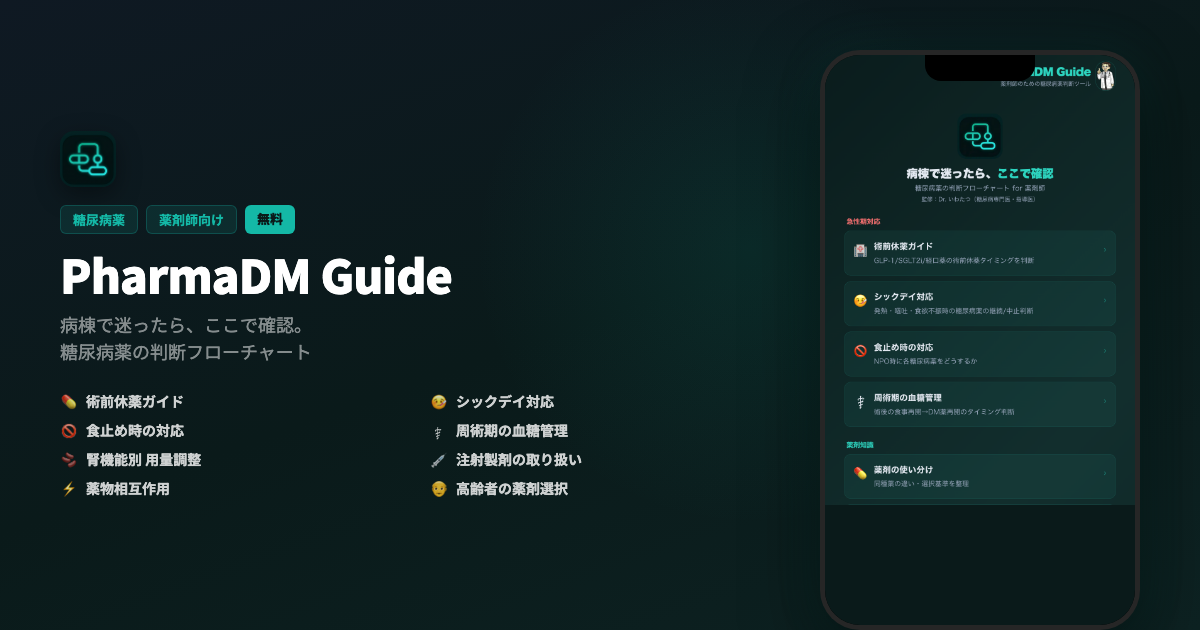
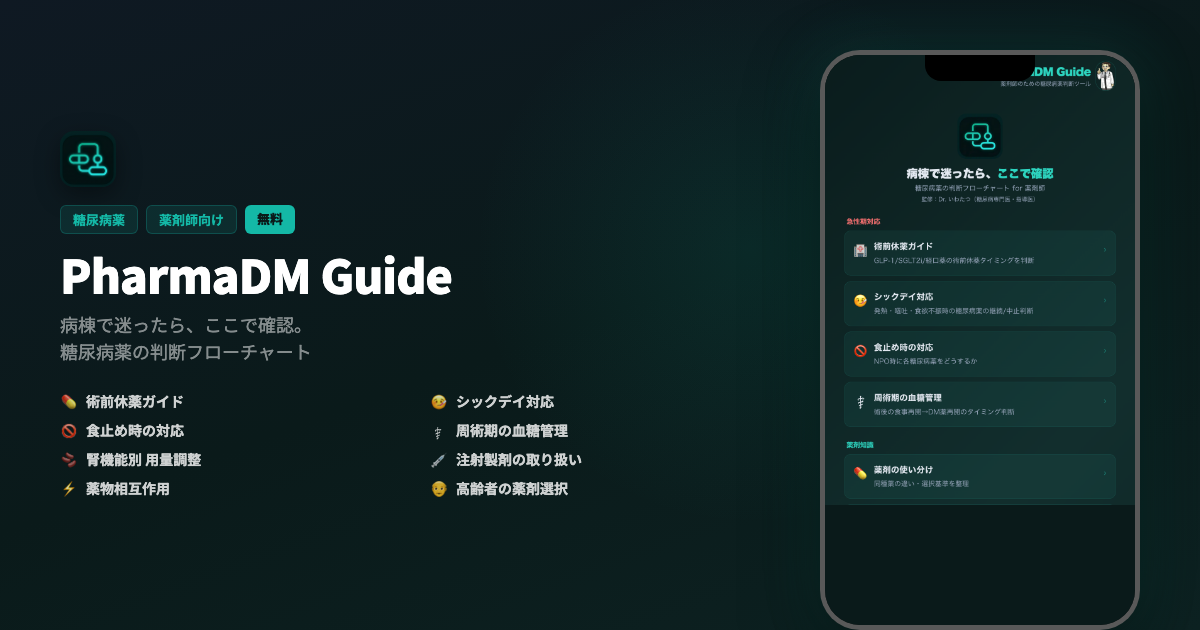
Brighten phone border for visibility against dark background

Changed region(s): [[0.6783, 0.0905, 0.9558, 1.0], [0.7092, 0.0603, 0.925, 0.0905]]

diff --git a/promo-images/pharma-dm-guide-thumb.html b/promo-images/pharma-dm-guide-thumb.html
@@ -103,9 +103,9 @@
     height: 580px;
     background: #000;
     border-radius: 40px;
-    border: 5px solid rgba(255,255,255,0.15);
+    border: 5px solid rgba(255,255,255,0.35);
     overflow: hidden;
-    box-shadow: 0 24px 70px rgba(0,0,0,0.6), 0 0 50px rgba(20,184,166,0.10);
+    box-shadow: 0 24px 70px rgba(0,0,0,0.6), 0 0 60px rgba(20,184,166,0.20), inset 0 0 0 1px rgba(255,255,255,0.1);
     position: relative;
   }
   .phone::before {
